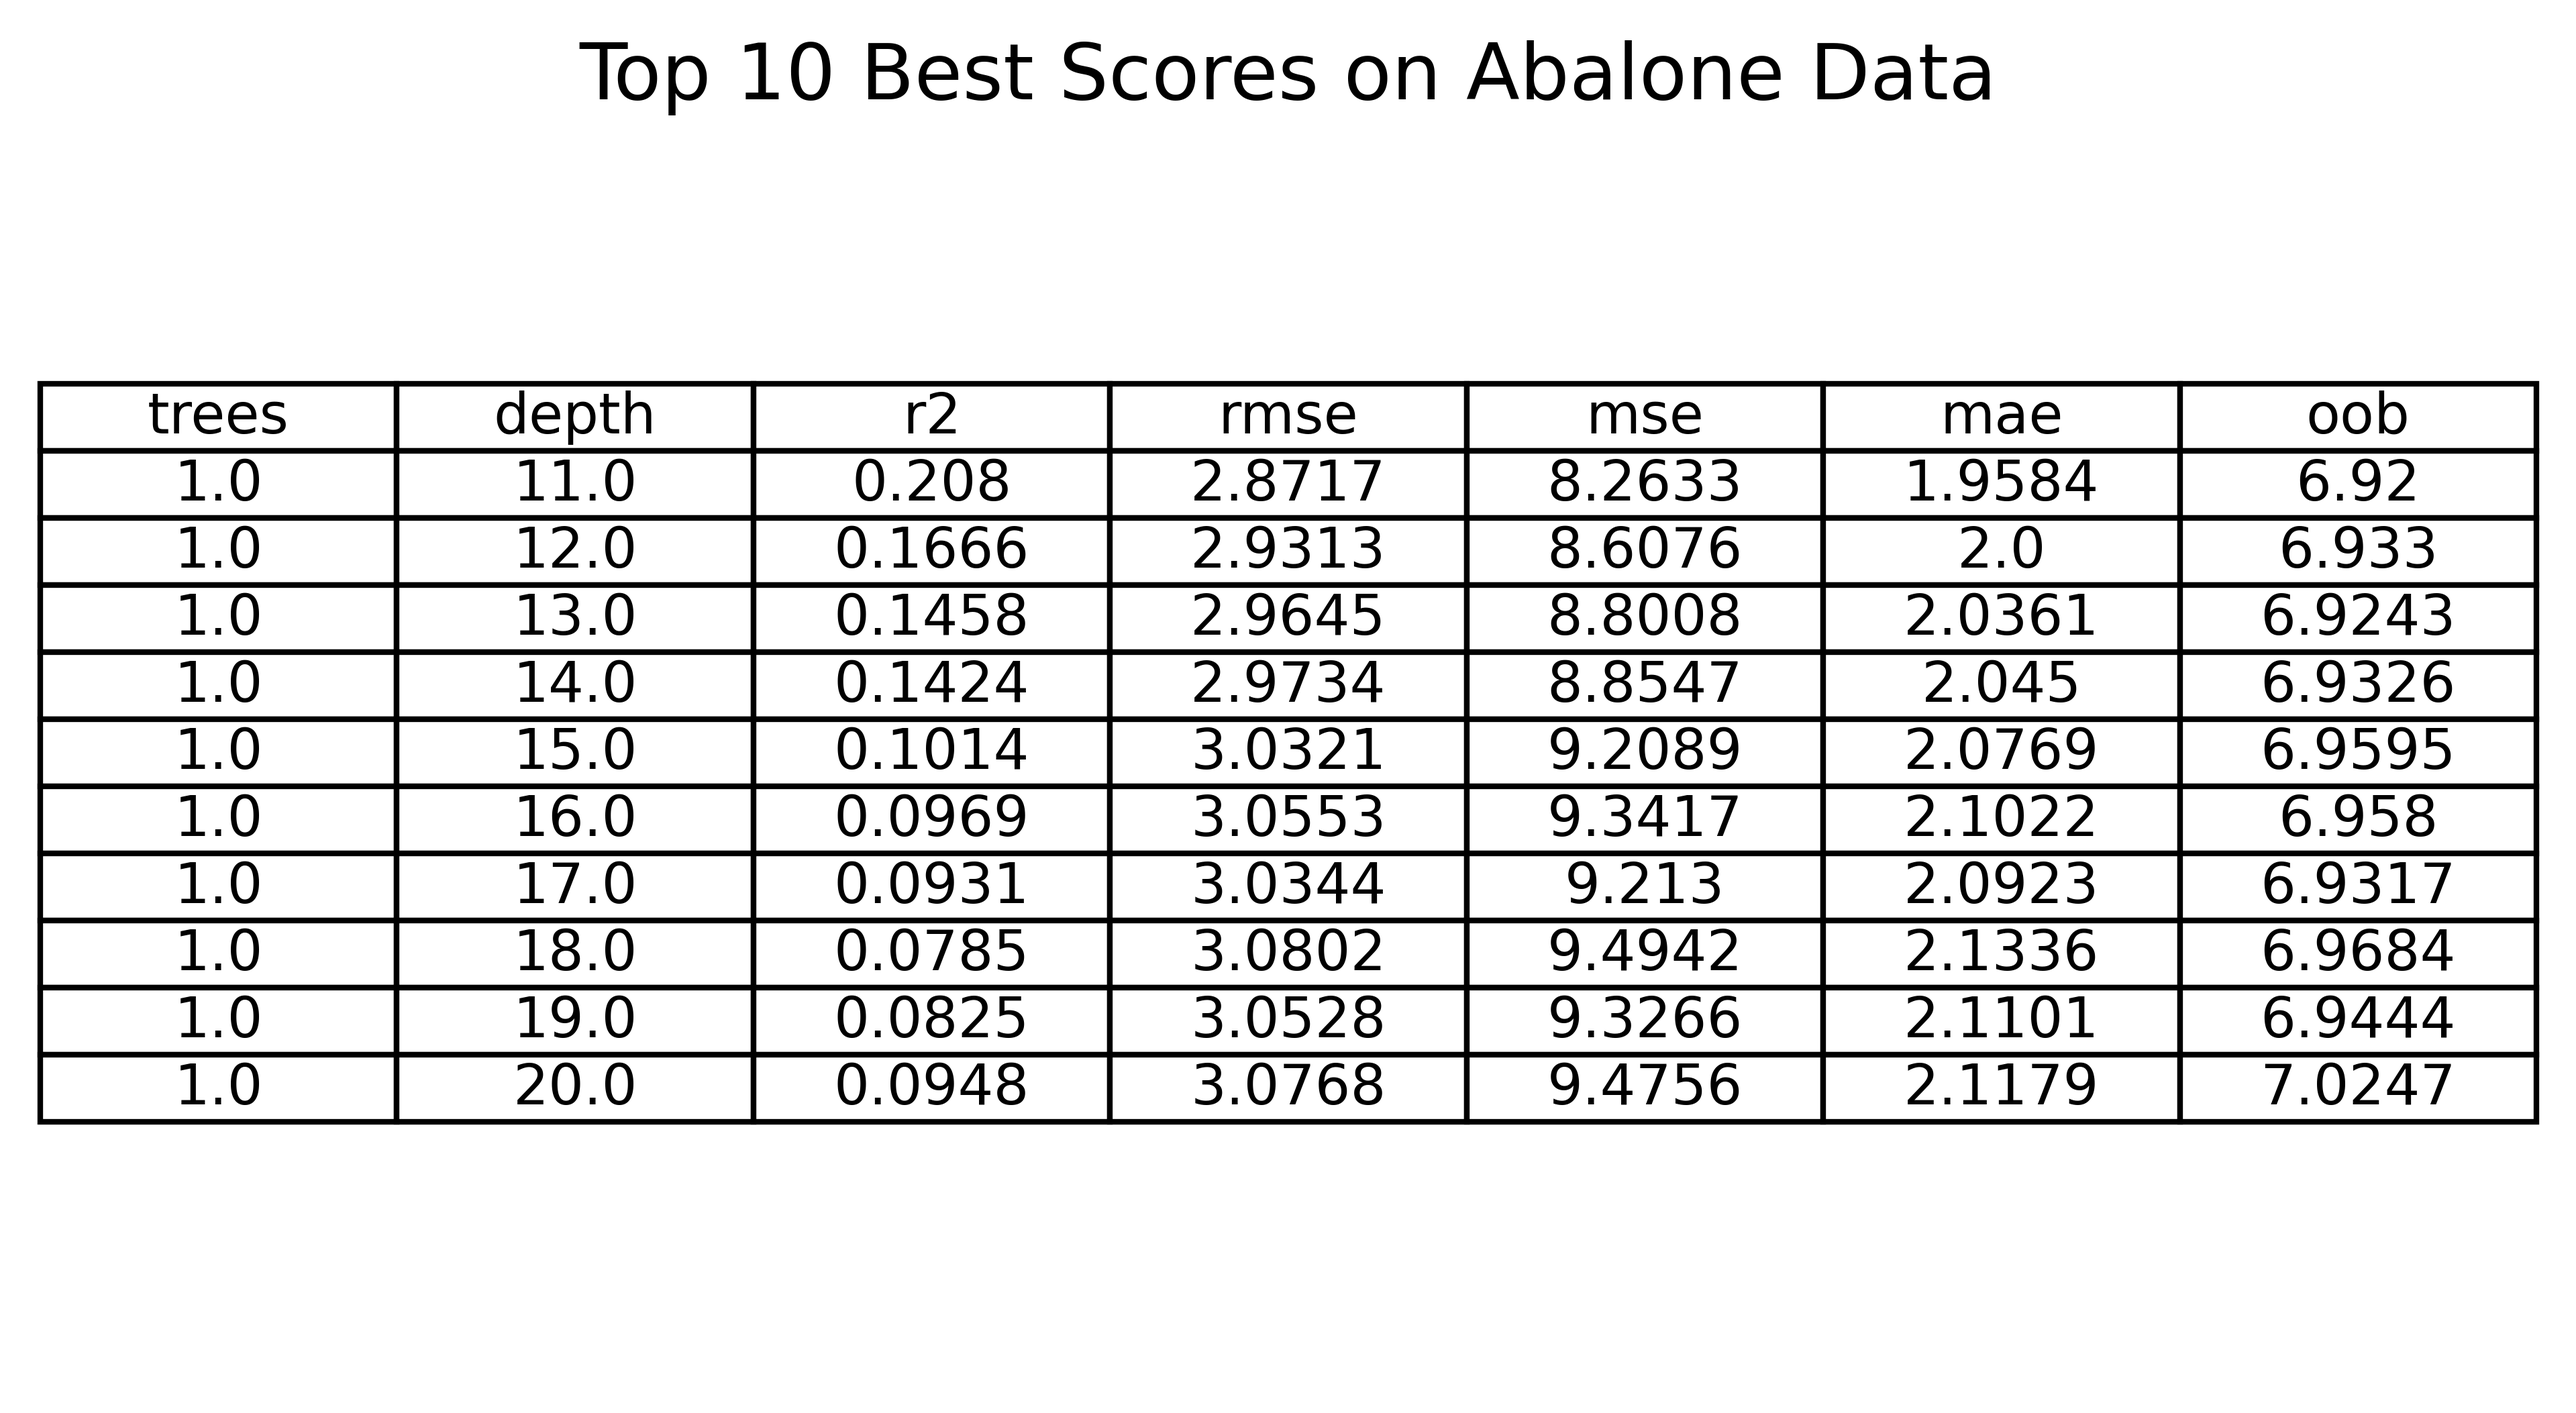
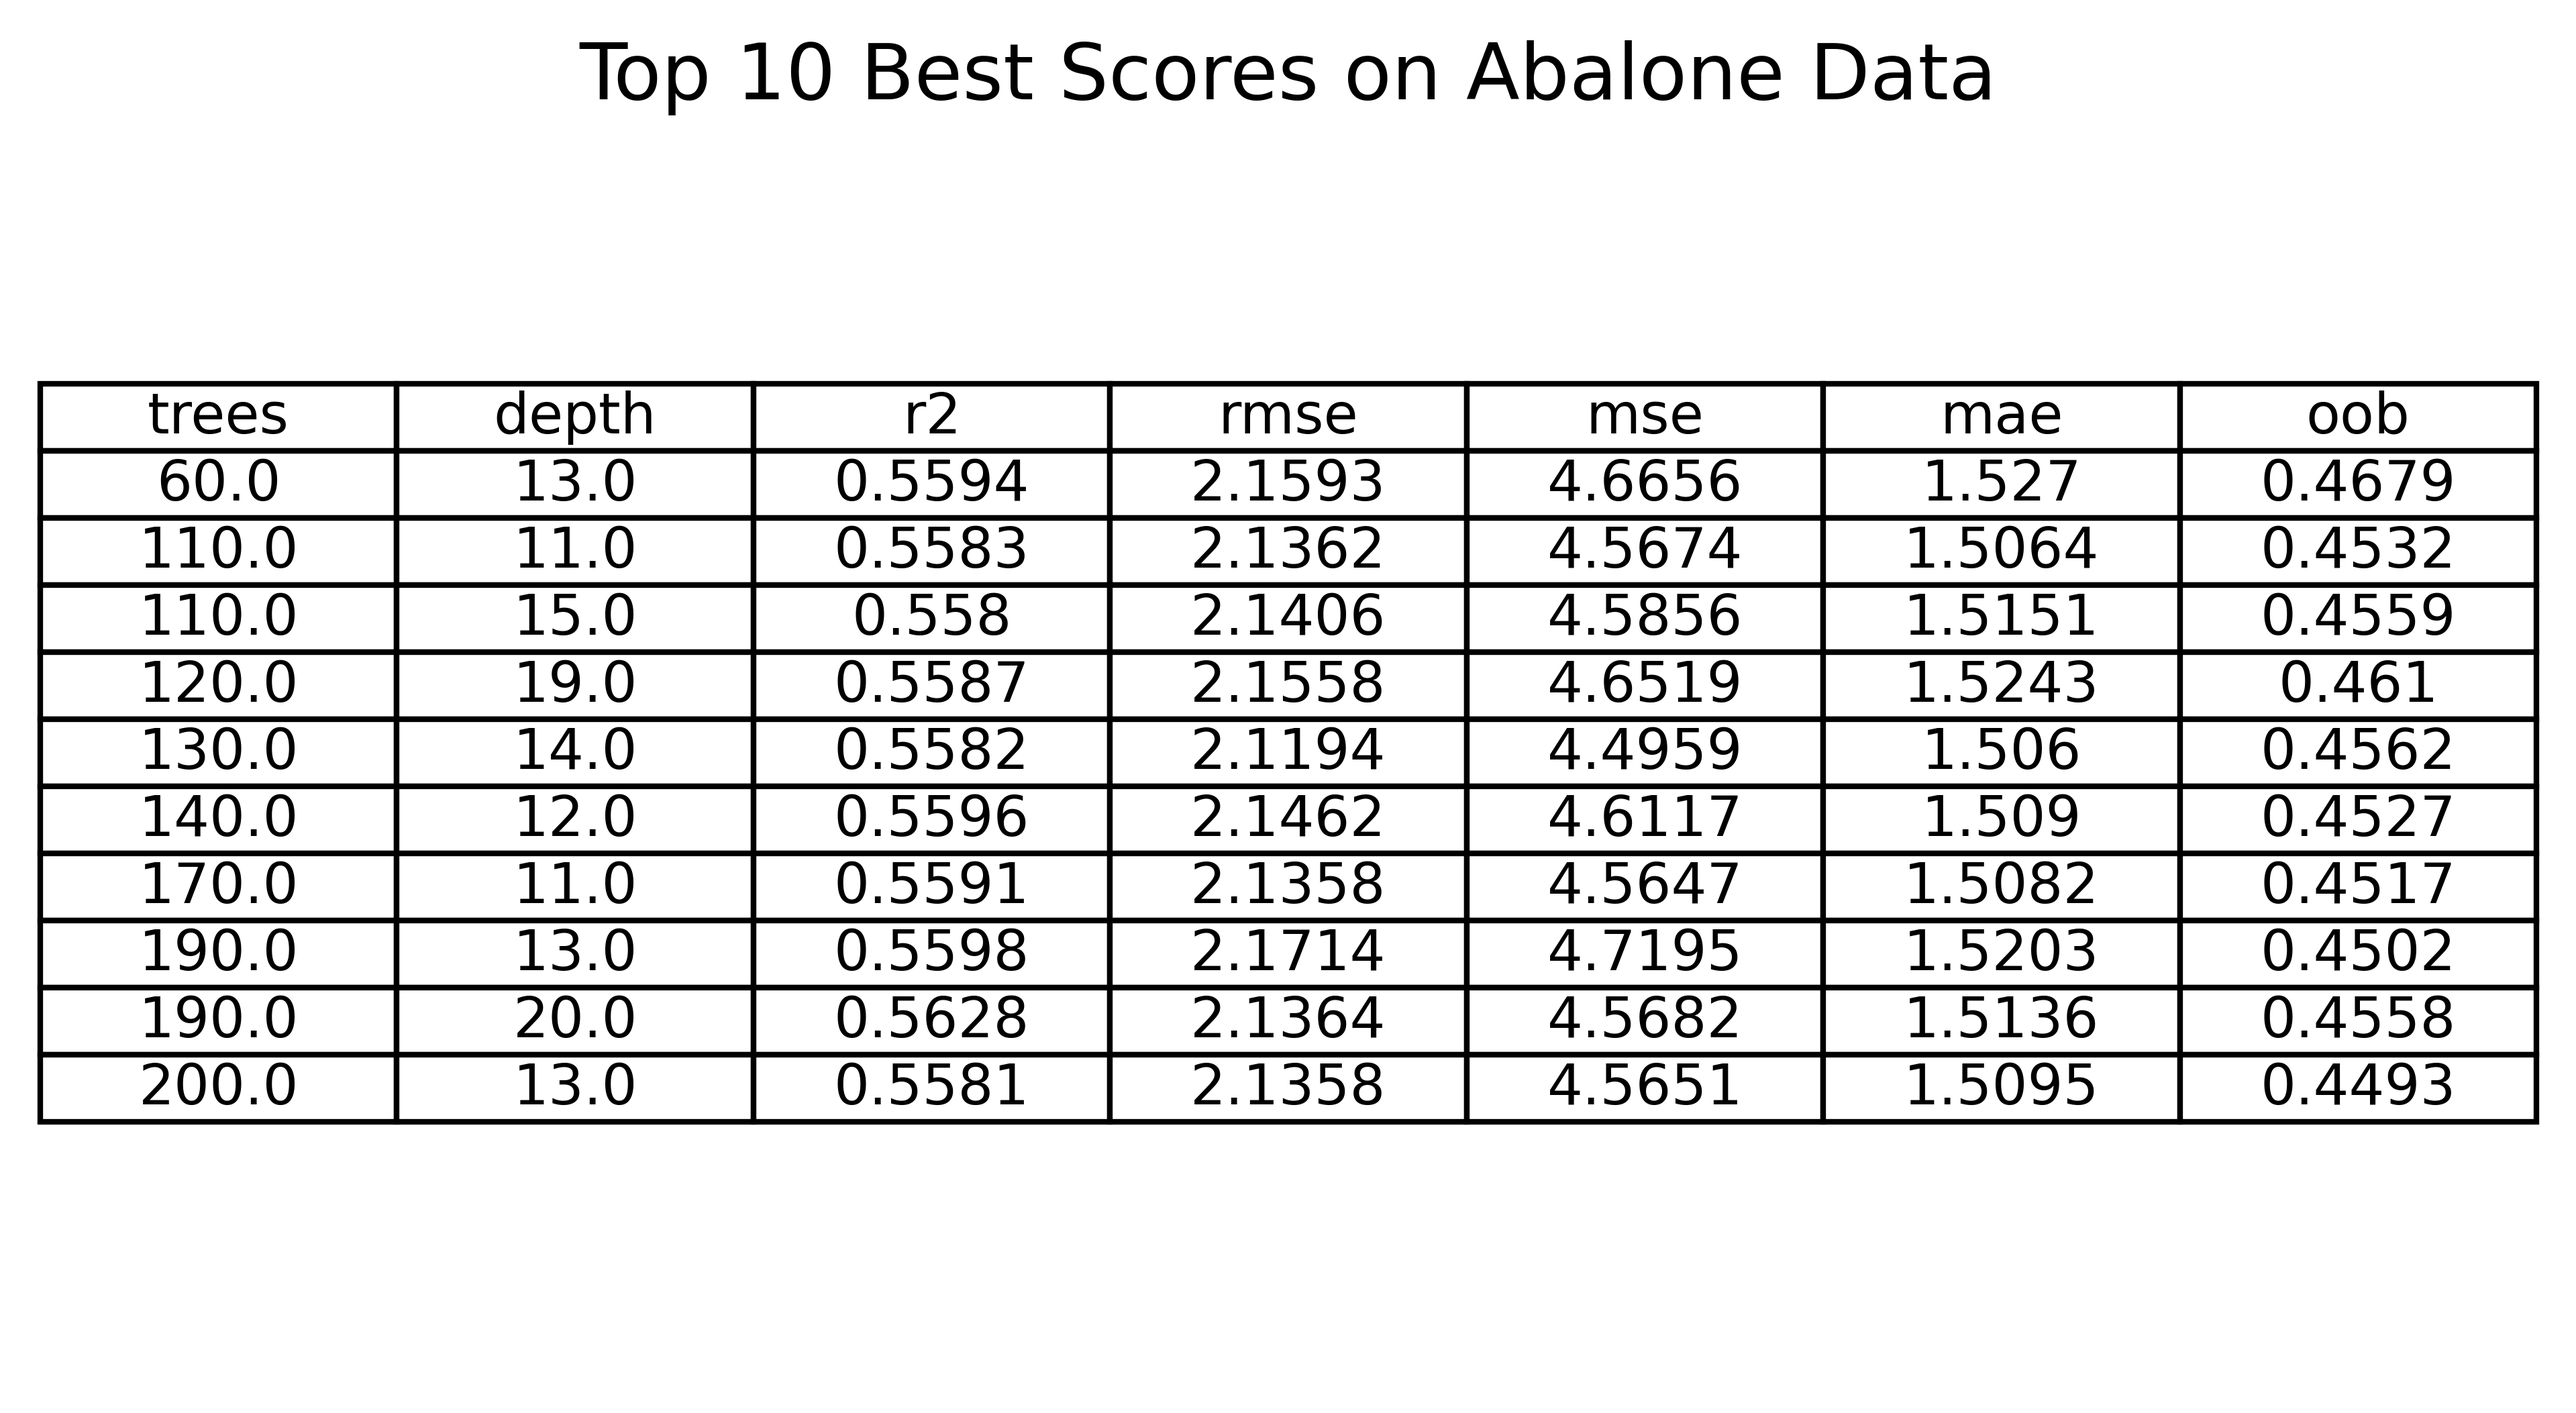
got the top 10 best performances

diff --git a/Code_and_Data/Code/Traditional_Random_Forest/graphIt.py b/Code_and_Data/Code/Traditional_Random_Forest/graphIt.py
@@ -19,6 +19,8 @@ allDatasets = regressionDatasets + classificationDatasets
 regErrCol = ['r2', 'rmse', 'mse', 'mae', 'oob']
 clsErrCol = ['accuracy', 'precision', 'recall', 'f1', 'oob']
 
+risingMetric = ['r2', 'accuracy', 'precision', 'recall', 'f1']
+fallingMetric = ['rmse', 'mse', 'mae', 'oob']
 
 def process_data_file(file_path):
     # Process a single data file
@@ -199,7 +201,7 @@ def makeGraph(directory_path):
 
                 topBestErr = 10
                 topErrs = pd.DataFrame(columns=mySortedData.columns)        
-                if whichTask == 'cls':
+                if error in risingMetric:
                     for _ in range(topBestErr):
                         max_point = mySortedData.loc[mySortedData[error].idxmax()]
                         # Transpose max_point Series to create a row DataFrame
@@ -213,7 +215,7 @@ def makeGraph(directory_path):
                         # topErrs = pd.concat([topErrs, max_point], axis=0, ignore_index=True)
                         mySortedData = mySortedData.drop(mySortedData[mySortedData[error] == max_point[error]].index)
                 
-                elif whichTask == 'reg':
+                elif error in fallingMetric:
                     for _ in range(topBestErr):
                         max_point = mySortedData.loc[mySortedData[error].idxmin()]
                         # Transpose max_point Series to create a row DataFrame
